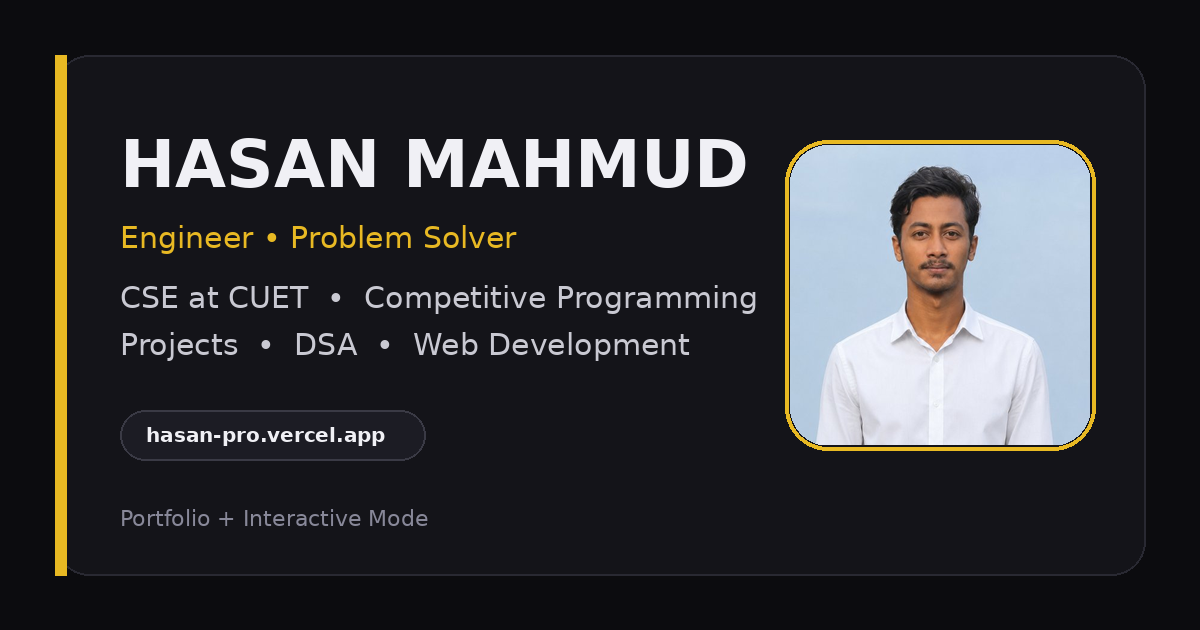
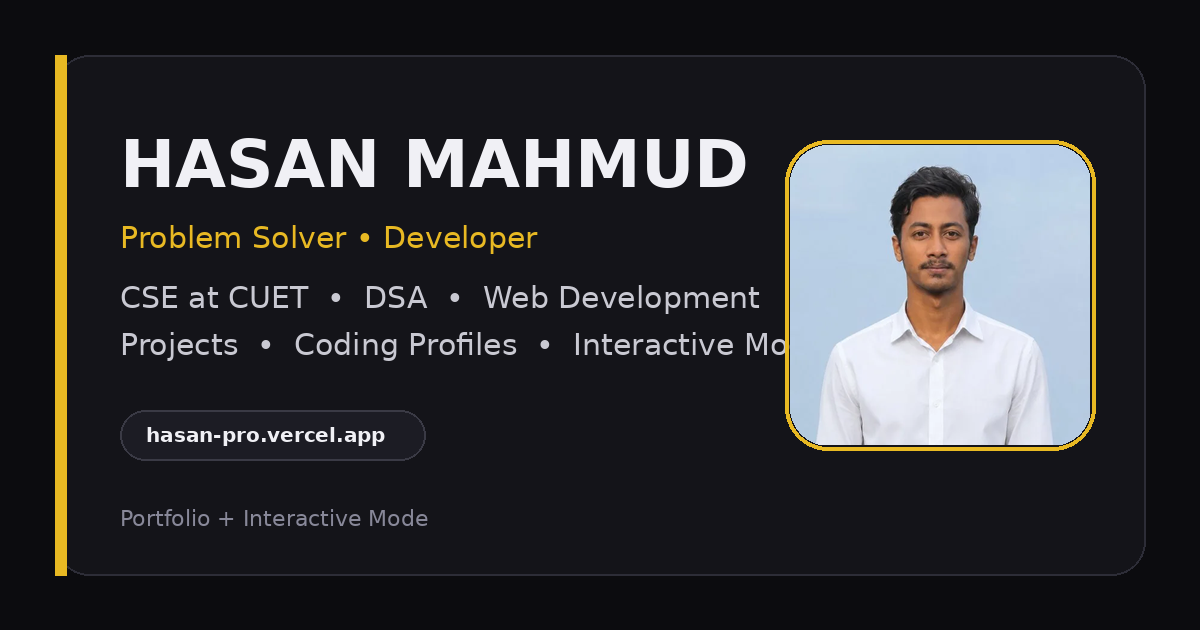
Add files via upload

Changed region(s): [[0.2467, 0.4524, 0.6475, 0.573], [0.0925, 0.3619, 0.4625, 0.4222]]

diff --git a/index.html b/index.html
@@ -3,23 +3,23 @@
 <head>
 <meta charset="UTF-8">
 <meta name="viewport" content="width=device-width, initial-scale=1.0">
-<title>Hasan Mahmud — Engineer & Problem Solver</title>
-<meta name="description" content="Hasan Mahmud - CSE student at CUET, competitive programmer, and creative developer.">
+<title>Hasan Mahmud — Problem Solver & Developer</title>
+<meta name="description" content="Hasan Mahmud - CSE student at CUET, problem solver, and creative developer.">
 <link rel="icon" type="image/svg+xml" href="/favicon.svg">
 <link rel="canonical" href="https://hasan-pro.vercel.app/">
 <meta name="theme-color" content="#0c0c0f">
 
 <meta property="og:type" content="website">
 <meta property="og:url" content="https://hasan-pro.vercel.app/">
-<meta property="og:title" content="Hasan Mahmud — Engineer & Problem Solver">
-<meta property="og:description" content="CSE student at CUET, competitive programmer, and creative developer. Explore projects, coding profiles, and an interactive portfolio.">
+<meta property="og:title" content="Hasan Mahmud — Problem Solver & Developer">
+<meta property="og:description" content="CSE student at CUET, problem solver, and creative developer. Explore projects, coding profiles, and an interactive portfolio.">
 <meta property="og:image" content="https://hasan-pro.vercel.app/og-preview.png">
 <meta property="og:image:width" content="1200">
 <meta property="og:image:height" content="630">
 
 <meta name="twitter:card" content="summary_large_image">
-<meta name="twitter:title" content="Hasan Mahmud — Engineer & Problem Solver">
-<meta name="twitter:description" content="CSE student at CUET, competitive programmer, and creative developer.">
+<meta name="twitter:title" content="Hasan Mahmud — Problem Solver & Developer">
+<meta name="twitter:description" content="CSE student at CUET, problem solver, and creative developer.">
 <meta name="twitter:image" content="https://hasan-pro.vercel.app/og-preview.png">
 <link rel="dns-prefetch" href="//fonts.googleapis.com">
 <link rel="dns-prefetch" href="//fonts.gstatic.com">
@@ -257,28 +257,6 @@ nav.menu-open .nav-toggle-lines::after { top: 6px; transform: rotate(-45deg); }
   transform: scale(1.025);
   filter: brightness(1.04);
 }
-.project-preview::after {
-  content: "Open project ↗";
-  position: absolute;
-  right: 0.65rem;
-  bottom: 0.6rem;
-  padding: 0.28rem 0.55rem;
-  border-radius: 999px;
-  background: rgba(12,12,15,0.82);
-  backdrop-filter: blur(8px);
-  color: var(--ink);
-  border: 1px solid var(--line-strong);
-  font-family: "JetBrains Mono", monospace;
-  font-size: 0.68rem;
-  opacity: 0;
-  transform: translateY(4px);
-  transition: opacity 0.2s ease, transform 0.2s ease;
-}
-.project-preview:hover::after {
-  opacity: 1;
-  transform: translateY(0);
-}
-
 /* Rendering optimization for below-the-fold sections */
 main section {
   content-visibility: auto;
@@ -345,7 +323,7 @@ main section {
     <div class="reveal">
       <div class="hero-eyebrow">Computer Science & Engineering</div>
       <h1 class="hero-title">Hasan Mahmud.<br><span class="accent">Problem Solver.</span></h1>
-      <p class="hero-desc">3rd-year CSE student at CUET. Passionate about problem solving, data structures & algorithms, and competitive programming. Always learning, always building.</p>
+      <p class="hero-desc">3rd-year CSE student at CUET. Passionate about problem solving, data structures & algorithms, and building useful projects. Always learning, always building.</p>
       <div class="hero-actions">
         <a href="#projects" class="btn btn-primary">View My Work</a>
         <a href="https://mail.google.com/mail/?view=cm&fs=1&to=hasanmahmud25910@gmail.com&su=Portfolio%20Contact" target="_blank" rel="noopener noreferrer" class="btn btn-ghost">Get in Touch</a>
@@ -558,7 +536,7 @@ main section {
     </div>
     <div class="contact-card">
       <h3>Open for Opportunities</h3>
-      <p>I am currently looking for internships, collaborative projects, and competitive programming communities to grow with.</p>
+      <p>I am currently looking for internships, collaborative projects, and developer communities to grow with.</p>
       <div class="contact-links">
         <a href="https://mail.google.com/mail/?view=cm&fs=1&to=hasanmahmud25910@gmail.com&su=Portfolio%20Contact" target="_blank" rel="noopener noreferrer">Email</a>
         <a href="https://github.com/Hasan-mahmud-22" target="_blank" rel="noopener">GitHub</a>
